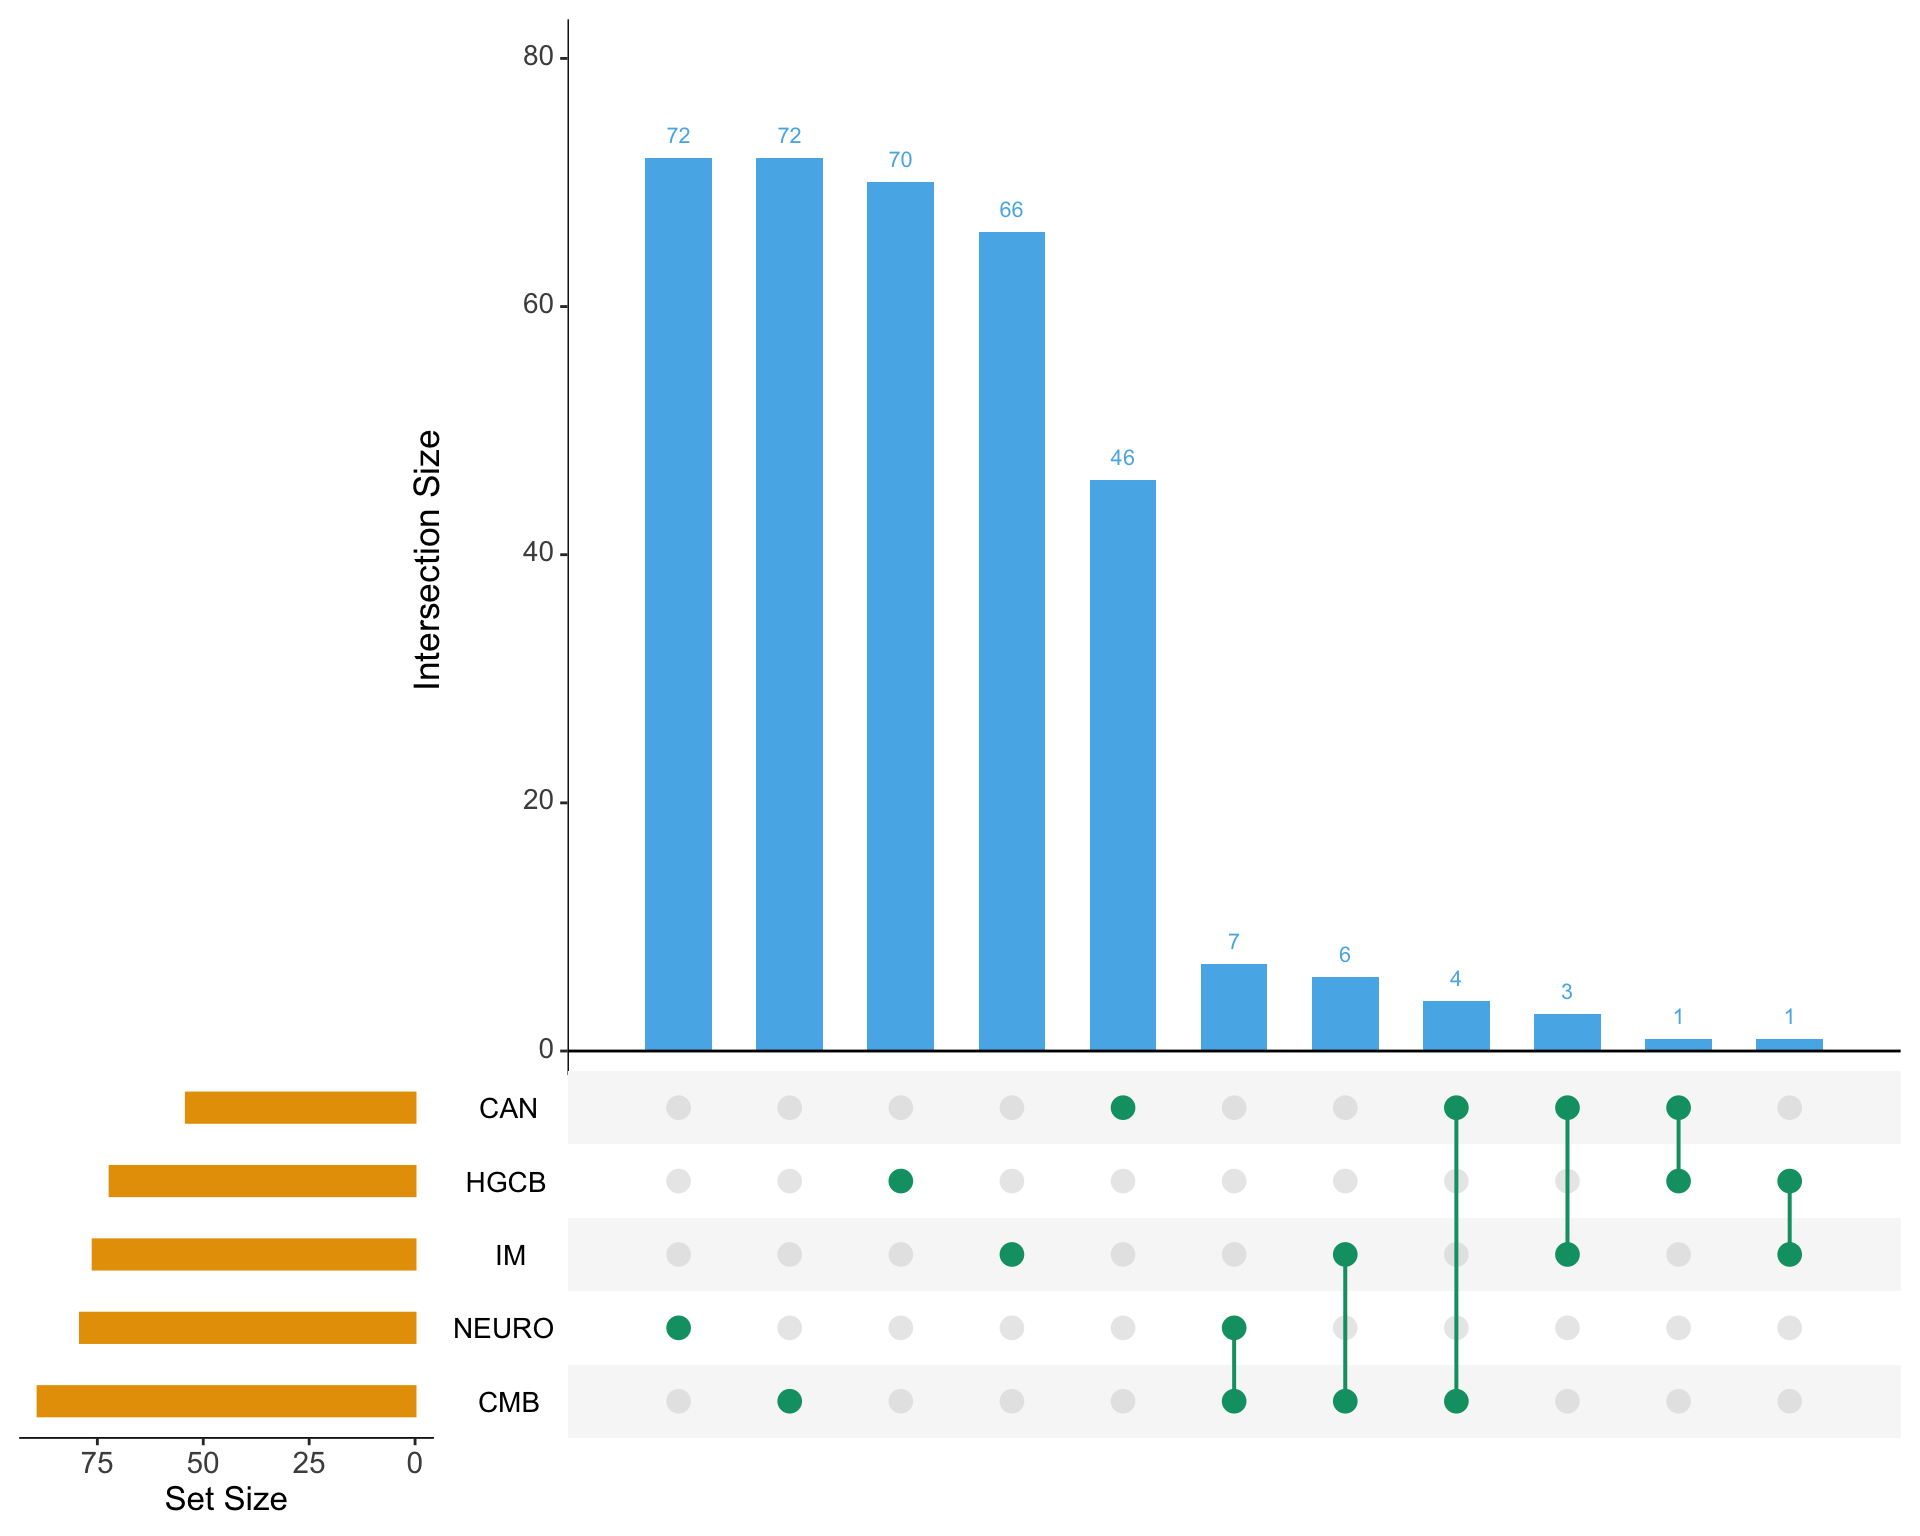
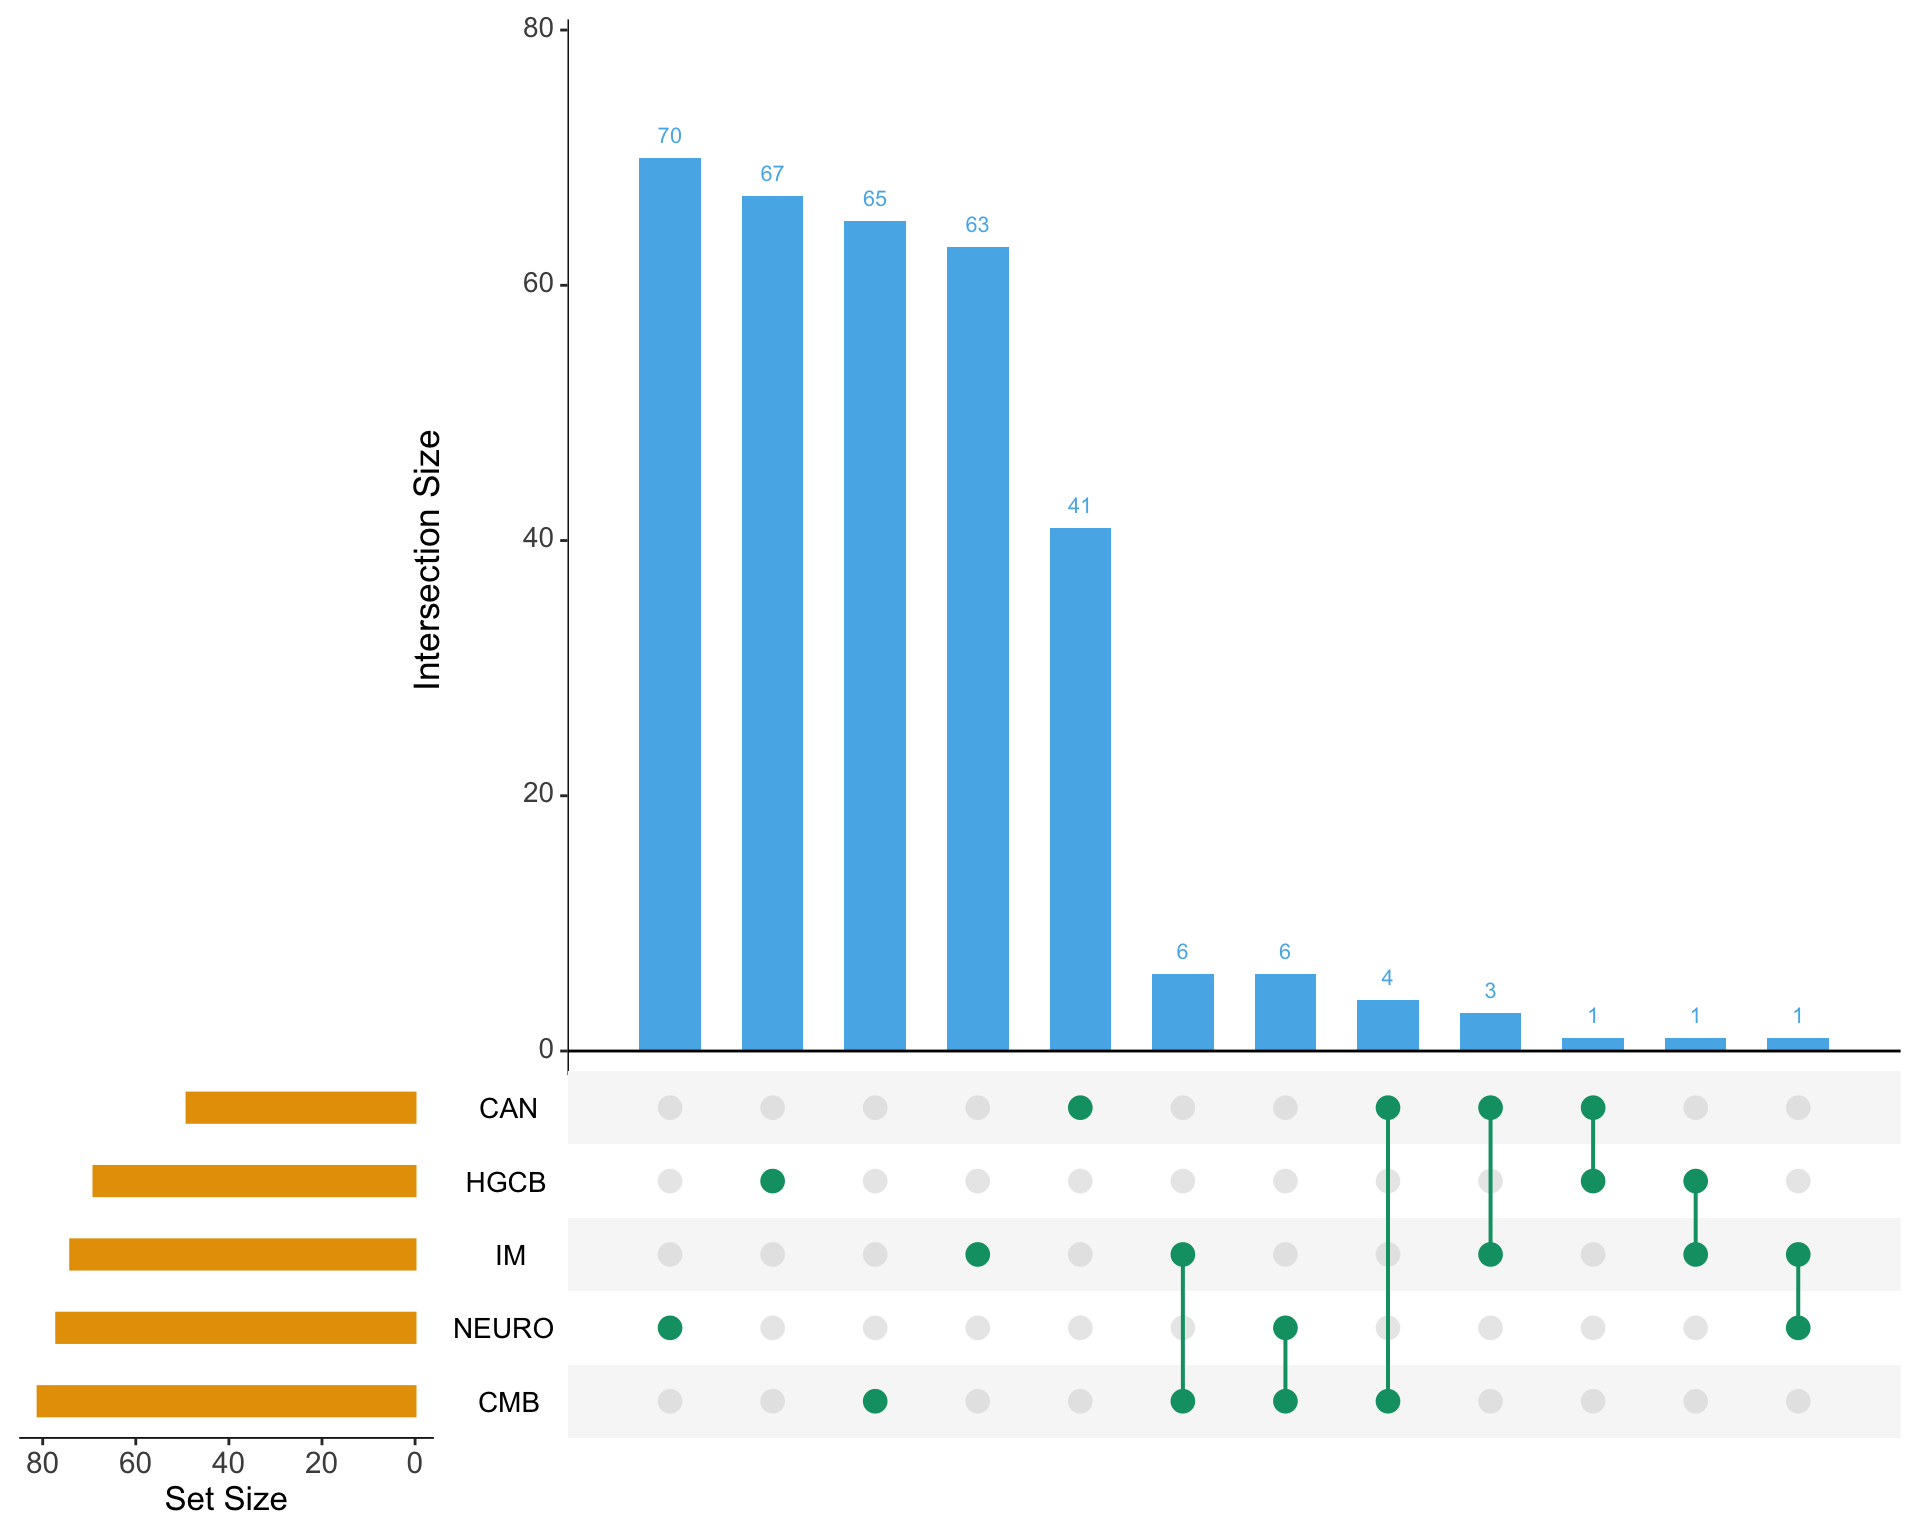
New proposed structure

diff --git a/docs/faculty-associations.html b/docs/faculty-associations.html
@@ -733,6 +733,16 @@
   }
 
 
+  .sidebar-section.custom {
+    font-size: 12px;
+    line-height: 1.6em;
+  }
+
+  .custom p {
+    margin-bottom: 0.5em;
+  }
+
+
   /* Improve display for browsers without grid (IE/Edge <= 15) */
 
   .downlevel {
@@ -1258,7 +1268,7 @@
   </script>
 
   <!--/radix_placeholder_distill-->
-  <script src="site_libs/header-attrs-2.1/header-attrs.js"></script>
+  <script src="site_libs/header-attrs-2.3/header-attrs.js"></script>
   <script src="site_libs/jquery-1.11.3/jquery.min.js"></script>
   <script src="site_libs/bowser-1.9.3/bowser.min.js"></script>
   <script src="site_libs/webcomponents-2.0.0/webcomponents.js"></script>
@@ -1274,7 +1284,7 @@
 <!--radix_placeholder_front_matter-->
 
 <script id="distill-front-matter" type="text/json">
-{"title":"Impact of reorganization on program composition","authors":[{"author":"Jay Hesselberth","authorURL":"#","affiliation":"&nbsp;","affiliationURL":"#"}],"publishedDate":"2020-04-14T00:00:00.000-06:00","citationText":"Hesselberth, 2020"}
+{"title":"Impact of reorganization on program composition","authors":[{"author":"Jay Hesselberth","authorURL":"#","affiliation":"&nbsp;","affiliationURL":"#"}],"publishedDate":"2020-04-14T00:00:00.000-05:00","citationText":"Hesselberth, 2020"}
 </script>
 
 <!--/radix_placeholder_front_matter-->
@@ -1318,7 +1328,7 @@
 <li><p>The “Current” tab contains the data from the GS survey of program memberships prepared for the Engelke task force.</p></li>
 <li><p>The “Proposed” tab contains my assignments (marked with “1”s) of faculty to the new structure. I’m pretty comfortable with most of these assignments, but please let me know if you have quibbles. In this exercise I learned there are several training faculty at AMC I have never heard of, so relied on CU Profiles to help me choose.</p></li>
 </ul>
-<p><strong>In our current program structure, there are 348 faculty across 11 programs</strong>.</p>
+<p><strong>In our current program structure, there are 324 faculty across 11 programs</strong>.</p>
 <h2 id="upset-plots">Upset plots</h2>
 <p>These plots illustrate the size and overlaps of training faculty across programs.</p>
 <p>If you’ve never seen <a href="https://academic.oup.com/bioinformatics/article/33/18/2938/3884387">“upset” plots</a> before, they’re worth digesting:</p>
@@ -1343,6 +1353,24 @@
 </ol>
 <div class="layout-chunk" data-layout="l-body-outset">
 <p><img src="faculty-associations_files/figure-html5/prog_upset_new-1.png" width="960" /></p>
+</div>
+<ul>
+<li><p>There are <em>many</em> fewer cross-program faculty. As I went through mapping faculty to programs, in many cases it was obvious what the primary association(s) should be; everyone is affiliated with 1 or 2 programs.</p></li>
+<li><p>The sizes of new programs are roughly uniform, with four of the new programs comprised of 70-80 uniquely-associated faculty. CAN (Cancer Biology and Pharmacology) is a bit smaller.</p></li>
+</ul>
+<h3 id="yet-another-proposed-program-structure">(Yet another) Proposed program structure</h3>
+<p>This plot represents the proposed program structure, with my faculty assignments from the sheet above.</p>
+<ol type="1">
+<li>CSD, HMGP, Iphs (CSDV)</li>
+<li>Mol bio and structure (MOLB)</li>
+<li>Neuro (NEURO)</li>
+<li>Comp bio and personalized medicine part of HMGP (COMP)</li>
+<li>Immuno micro (IM)</li>
+<li>Can Bio (CANB)</li>
+<li>Pharm (PHRM)</li>
+</ol>
+<div class="layout-chunk" data-layout="l-body-outset">
+<p><img src="faculty-associations_files/figure-html5/prog_upset_new_again-1.png" width="960" /></p>
 </div>
 <ul>
 <li><p>There are <em>many</em> fewer cross-program faculty. As I went through mapping faculty to programs, in many cases it was obvious what the primary association(s) should be; everyone is affiliated with 1 or 2 programs.</p></li>

diff --git a/docs/site_libs/header-attrs-2.3/header-attrs.js b/docs/site_libs/header-attrs-2.3/header-attrs.js
@@ -1,0 +1,12 @@
+// Pandoc 2.9 adds attributes on both header and div. We remove the former (to
+// be compatible with the behavior of Pandoc < 2.8).
+document.addEventListener('DOMContentLoaded', function(e) {
+  var hs = document.querySelectorAll("div.section[class*='level'] > :first-child");
+  var i, h, a;
+  for (i = 0; i < hs.length; i++) {
+    h = hs[i];
+    if (!/^h[1-6]$/i.test(h.tagName)) continue;  // it should be a header h1-h6
+    a = h.attributes;
+    while (a.length > 0) h.removeAttribute(a[0].name);
+  }
+});
